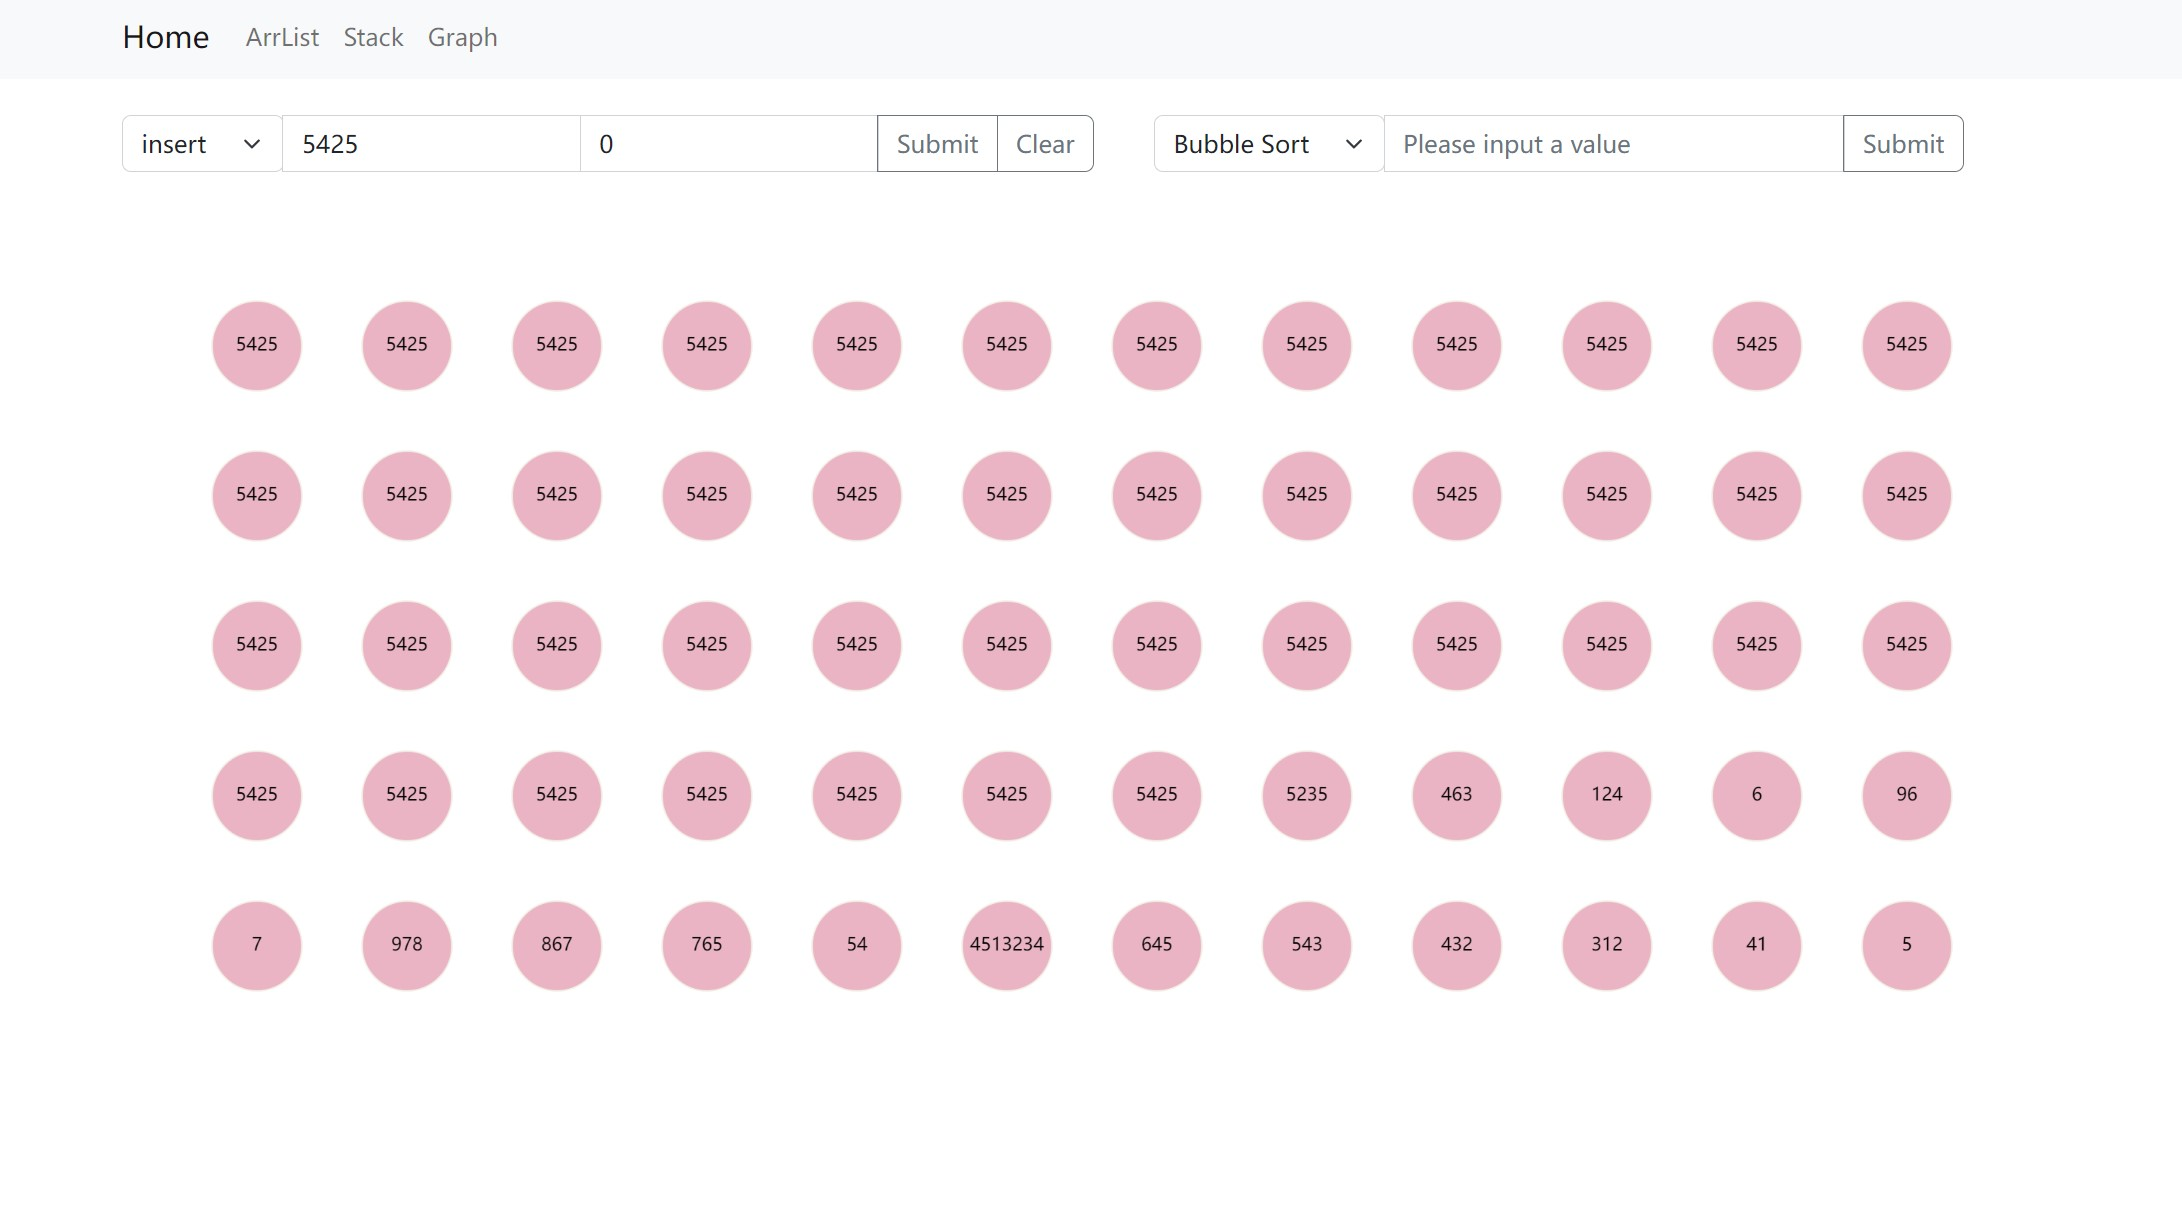
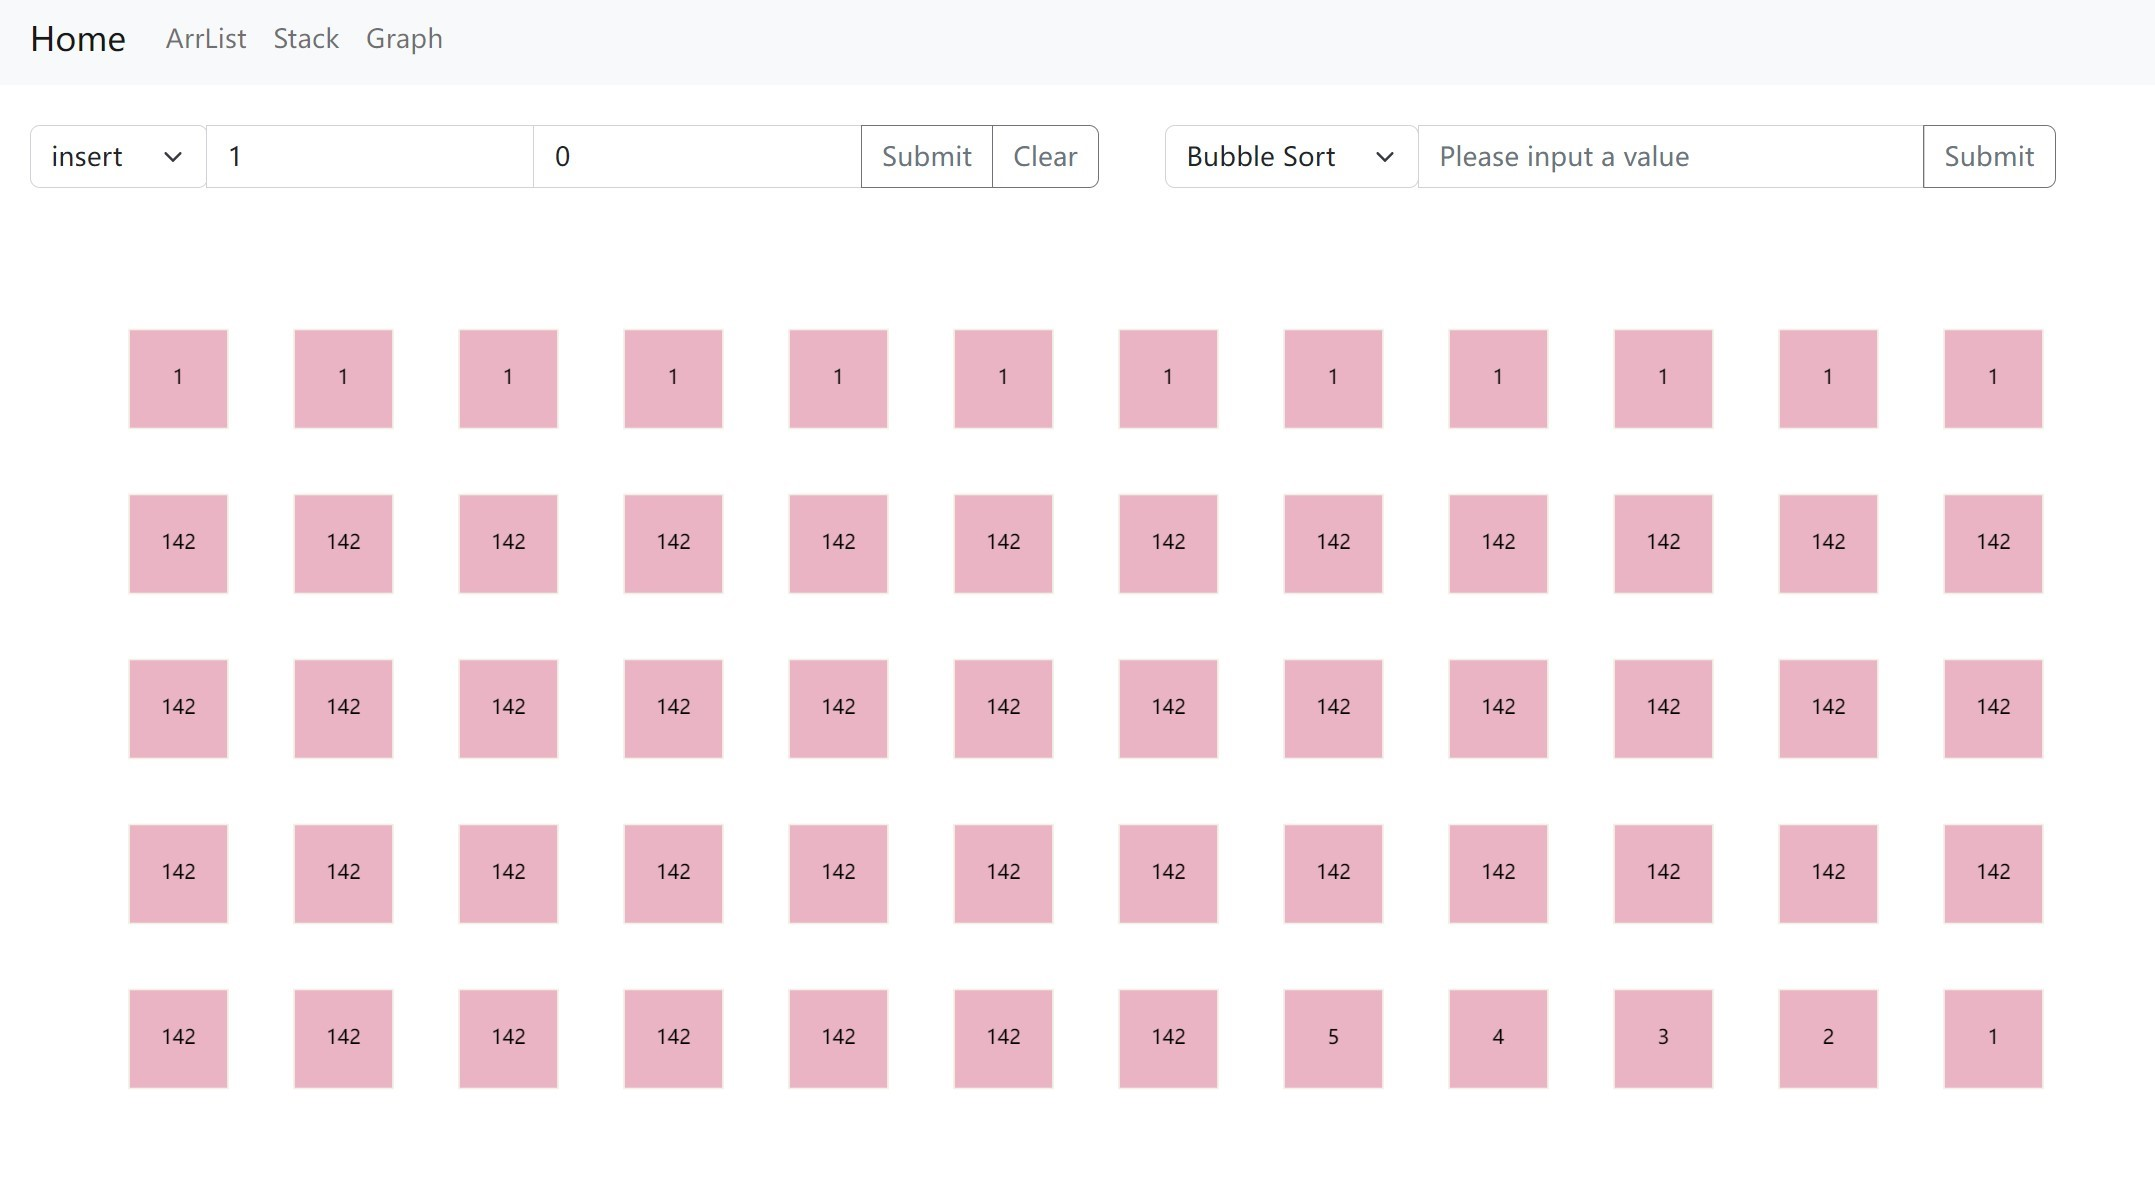
graph data debug and home link debug

diff --git a/src/components/content/home.jsx b/src/components/content/home.jsx
@@ -3,6 +3,7 @@ import { Base } from './base';
 import arrList from '../../images/arrList.jpg'
 import stack from '../../images/stack.jpg'
 import graph from '../../images/graph.jpg'
+import { Link } from 'react-router-dom';
 
 export default class Home extends Component {
     state = { };
@@ -26,7 +27,7 @@ export default class Home extends Component {
                     <div className="card-body">
                         <h5 className="card-title">ArrList</h5>
                         <p className="card-text">顺序表实现了基本的插入、删除与修改功能，并且支持冒泡排序或二分查找两类算法的应用，同时存在相应的动画演示。</p>
-                        <a href="http://localhost:3000/algorithm-visualization/arrList" className="btn btn-primary" style={{alignItems:'center',textAlign:'center',display:'flex',justifyContent:'center'}}>Goto ArrList</a>
+                        <Link className="nav-link btn btn-primary" to="/algorithm-visualization/arrList" style={{color:'white', height:'40px', alignItems:'center',textAlign:'center',display:'flex',justifyContent:'center'}}>Goto ArrList</Link>
                     </div>
                 </div>
                 <div className="card" style={{width: "18rem",float:'left',marginLeft:'158px'}}>
@@ -34,7 +35,7 @@ export default class Home extends Component {
                     <div className="card-body">
                         <h5 className="card-title">Stack</h5>
                         <p className="card-text">链式栈实现了基本的压入与弹出功能，并且支持中缀表达式的求值与括号匹配两类算法的应用，同时存在相应的动画演示。</p>
-                        <a href="http://localhost:3000/algorithm-visualization/stack" className="btn btn-primary" style={{alignItems:'center',textAlign:'center',display:'flex',justifyContent:'center'}}>Goto Stack</a>
+                        <Link className="nav-link btn btn-primary" to="/algorithm-visualization/stack" style={{color:'white', height:'40px', alignItems:'center',textAlign:'center',display:'flex',justifyContent:'center'}}>Goto Stack</Link>
                     </div>
                 </div>
                 <div className="card" style={{width: "18rem",float:'left',marginLeft:'158px'}}>
@@ -42,7 +43,7 @@ export default class Home extends Component {
                     <div className="card-body">
                         <h5 className="card-title">Graph</h5>
                         <p className="card-text">无向图实现了基本的增加、删除、拖拽点与边的功能，并且支持搜索和判断二分图两类算法的应用，同时存在相应的动画演示。</p>
-                        <a href="http://localhost:3000/algorithm-visualization/graph" className="btn btn-primary" style={{alignItems:'center',textAlign:'center',display:'flex',justifyContent:'center'}}>Goto Graph</a>
+                        <Link className="nav-link btn btn-primary" to="/algorithm-visualization/graph" style={{color:'white', height:'40px', alignItems:'center',textAlign:'center',display:'flex',justifyContent:'center'}}>Goto Graph</Link>
                     </div>
                 </div>
             </Base>

diff --git a/src/components/content/graph.jsx b/src/components/content/graph.jsx
@@ -3,6 +3,7 @@ import DataGraph from './../data/dataGraph';
 import { DataGraphStructure } from './../data/dataGraph';
 import { sleep } from './../sleep';
 import G6_render_graph from './../G6_render_graph';
+import { data } from 'jquery';
 
 export class Graph extends Component {
 
@@ -128,7 +129,7 @@ export class Graph extends Component {
         }
     }   
 
-    addItems = () => {
+    async addItems (){
         const items = this.add_items.current.value;
         const type = this.add_type.current.value;
         if(type === "Add Nodes") {
@@ -160,6 +161,7 @@ export class Graph extends Component {
                 nodeSize: 50, // 布局参数，节点大小，用于判断节点是否重叠
                 linkDistance: 200, // 布局参数，边长
               });
+            await sleep(500)
         }
         if(type === "Add Edges") {
             for(let i = 0; i < items.length; i ++) {
@@ -212,6 +214,7 @@ export class Graph extends Component {
                 nodeSize: 50, // 布局参数，节点大小，用于判断节点是否重叠
                 linkDistance: 200, // 布局参数，边长
               });
+              await sleep(500)
         }
         if(type === "Edit Node") {
             let source = '';
@@ -278,6 +281,16 @@ export class Graph extends Component {
                     }
                 }
             }
+        }
+        for(let i = 0; i < DataGraph.state.nodes.length; i ++) {
+            const id = DataGraph.state.nodes[i].id;
+            const node = this.state.graph.findById(id);
+            const model = node.getModel();
+            console.log(model);
+            console.log(model.x)
+            DataGraph.state.nodes[i].x = model.x;
+            DataGraph.state.nodes[i].y = model.y;
+            console.log(DataGraph.state.nodes[i])
         }
         this.update_adjlist();
     }

diff --git a/src/components/G6_render_arrList.js b/src/components/G6_render_arrList.js
@@ -9,6 +9,7 @@ const G6_render_arrList = (data, id, dataStructure) => {
         fitViewPadding: [20, 50, 50, 20],
         defaultNode: {
           size:60,
+          type:'rect',
           style: {
             fill: '#EAB4C4',
             stroke: '#F3F0E7',
